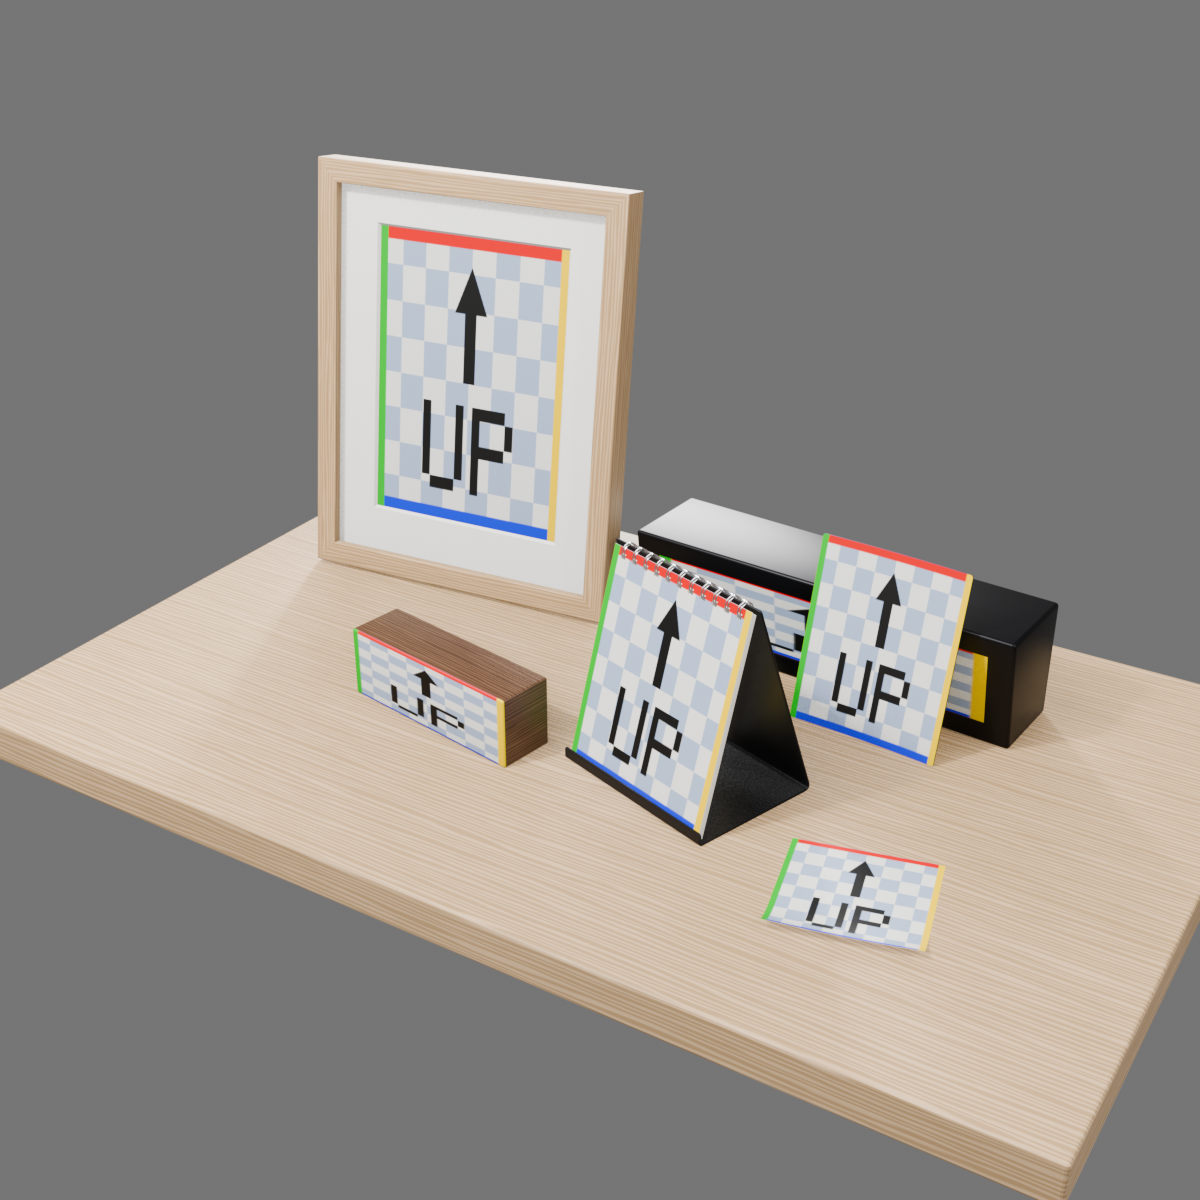
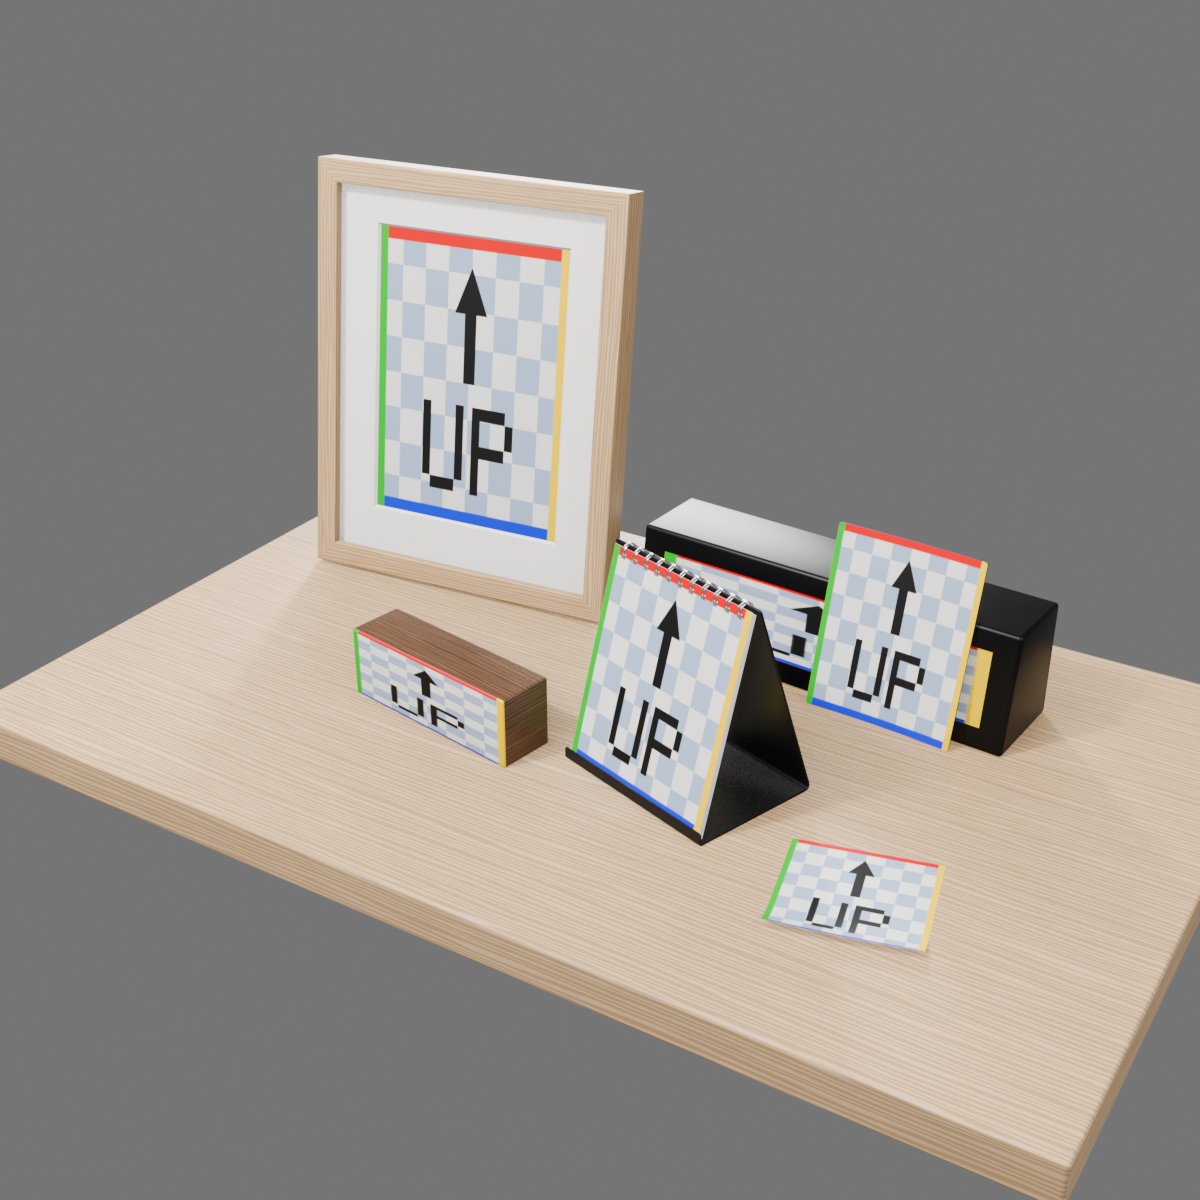
host-studio: terminal_display face leans back 8 deg (looks slightly up)
Re-exported terminal_display.fbx and its previews; labels_combo fits the
polaroid against the new face.

Co-Authored by MelloB's coding agent <build@mellob.in>

Changed region(s): [[0.5242, 0.4317, 0.8633, 0.6475]]

diff --git a/films/host-studio/props/_labels.py b/films/host-studio/props/_labels.py
@@ -639,8 +639,8 @@ def build_terminal_display():
     glass_m = glass("M_ScreenGlass")
     W, H, D, TILT = 24.0, 7.0, 6.0, math.radians(8)
     SW, SH = 21.0, 4.5
-    xb = D / 2 - H * math.tan(TILT)          # the face's bottom edge; its top edge is forward
-    prof = [(-D / 2, 0), (xb, 0), (D / 2, H), (-D / 2, H)]
+    xt = D / 2 - H * math.tan(TILT)          # the face's top edge; it leans back, looking slightly up
+    prof = [(-D / 2, 0), (D / 2, 0), (xt, H), (-D / 2, H)]
     bm = bmesh.new()
     left = [bm.verts.new((x, -W / 2, z)) for x, z in prof]
     right = [bm.verts.new((x, W / 2, z)) for x, z in prof]
@@ -653,8 +653,8 @@ def build_terminal_display():
     bmesh.ops.bevel(bm, geom=list(bm.edges), offset=0.22, segments=4, profile=0.5, affect="EDGES",
                     clamp_overlap=True)
     bm.normal_update()
-    nface = Vector((math.cos(TILT), 0, -math.sin(TILT)))
-    up = Vector((math.sin(TILT), 0, math.cos(TILT)))
+    nface = Vector((math.cos(TILT), 0, math.sin(TILT)))
+    up = Vector((-math.sin(TILT), 0, math.cos(TILT)))
     front = max((f for f in bm.faces if f.normal.dot(nface) > 0.999), key=lambda f: f.calc_area())
     c = front.calc_center_median()
     bmesh.ops.inset_individual(bm, faces=[front], thickness=0.6, depth=0.0)
@@ -835,8 +835,14 @@ def run_combo():
     pol, disp = obs["polaroid"].data, obs["terminal_display"].data
     pol.transform(Matrix.Translation((0, 0.05, 0)) @ Matrix.Rotation(math.radians(-14), 4, "Y"))
     pol.transform(Matrix.Translation((0, 0, -min(v.co.z for v in pol.vertices))))
-    face_x = max(v.co.x for v in disp.vertices if v.co.z > 0.055)
-    pol.transform(Matrix.Translation((face_x + 0.0008 - min(v.co.x for v in pol.vertices if v.co.z > 0.055), 0, 0)))
+    zt = max(v.co.z for v in pol.vertices)
+    xb0 = min(v.co.x for v in pol.vertices if v.co.z < 0.001)
+    xt0 = min(v.co.x for v in pol.vertices if v.co.z > zt - 0.001)
+
+    def pol_back(z):                         # the polaroid's rearmost x at height z: its back is straight up its height
+        return xb0 + (xt0 - xb0) * z / zt
+    gap = max(v.co.x - pol_back(v.co.z) for v in disp.vertices if v.co.z > 0.02 and v.co.x > 0)
+    pol.transform(Matrix.Translation((gap + 0.0008, 0, 0)))
     pol.update()
     place("framed_print", (-9, -17, 0), 6)
     place("terminal_display", (-10, 8, 0), -4)
